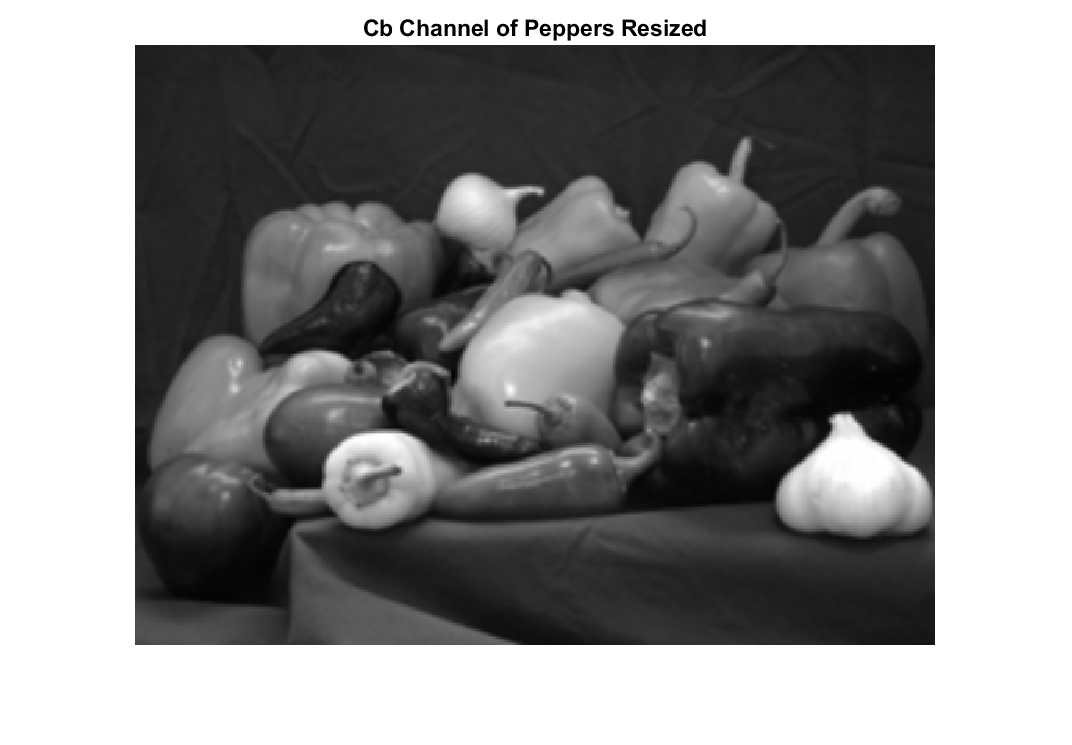
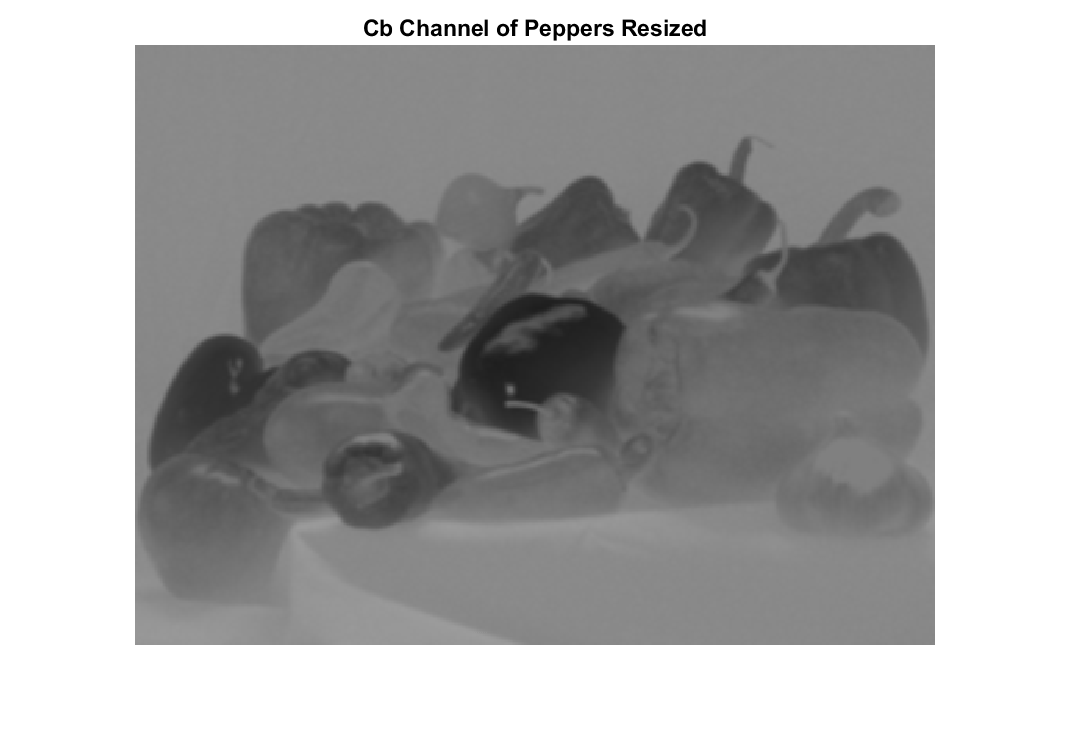
Fixed part 2! The chroma and luma peppers are correct now

diff --git a/lab5/lab5.m b/lab5/lab5.m
@@ -1,7 +1,7 @@
 %% Lab5 Prep
 
 lena = imread('lena.tiff'); 
-peppers = imread('peppers.png'); 
+[peppers, map] = imread('peppers.png'); 
 cur_dir = pwd; 
 
 mkdir('images/part2'); 
@@ -16,14 +16,14 @@ channels = ["Y", "Cb", "Cr"];
 
 for i = 1:size(peppers_ycbcr, 3)
     figure, 
-    imshow(peppers(:,:,i)); 
+    imshow(peppers_ycbcr(:,:,i)); 
     title(strcat(channels(i), ' Channel of Peppers')); 
     saveas(gcf, strcat(channels(i), '_Channel_Peppers_YCrCb.png')); 
 end
 
-peppers_Y_small = imresize(peppers(:,:,1), 0.5); 
-peppers_Cb_small = imresize(peppers(:,:,2), 0.5); 
-peppers_Cr_small = imresize(peppers(:,:,3), 0.5); 
+peppers_Y_small = imresize(peppers_ycbcr(:,:,1), 0.5); 
+peppers_Cb_small = imresize(peppers_ycbcr(:,:,2), 0.5); 
+peppers_Cr_small = imresize(peppers_ycbcr(:,:,3), 0.5); 
 
 peppers_Y = imresize(peppers_Y_small, 2, 'bilinear'); 
 peppers_Cb = imresize(peppers_Cb_small, 2, 'bilinear'); 
@@ -46,11 +46,11 @@ saveas(gcf, 'Resized_Cr_Peppers.png');
 
 %Unscaled Y channel
 peppers_combined = zeros(size(peppers_Y,1),size(peppers_Y,2), 3, 'uint8'); 
-peppers_combined(:,:,1) = peppers(:,:,1);
+peppers_combined(:,:,1) = peppers_ycbcr(:,:,1);
 peppers_combined(:,:,2) = peppers_Cb; 
 peppers_combined(:,:,3) = peppers_Cr; 
 figure, 
-imshow(peppers_combined); 
+imshow(ycbcr2rgb(peppers_combined)); 
 title('Recombined Resized Peppers'); 
 saveas(gcf, 'Recombined_Peppers_Unscaled.png'); 
 
@@ -60,7 +60,7 @@ peppers_combined(:,:,2) = peppers_Cb;
 peppers_combined(:,:,3) = peppers_Cr; 
 
 figure, 
-imshow(peppers_combined); 
+imshow(ycbcr2rgb(peppers_combined)); 
 title('Recombined All Channels Resized Peppers'); 
 saveas(gcf, 'Recombined_Peppers_Scaled.png'); 
 
@@ -151,11 +151,11 @@ f= double(f);
 F_trans = floor(blockproc(f-128, [N N], @(x) T*x.data*T'));
 
 
-figure, imshow(F_trans(297:297+N-1, 81:81+N-1),'InitialMagnification','fit'); 
+figure, imshow(F_trans(297:297+N-1, 81:81+N-1), [], 'InitialMagnification','fit'); 
 title('DCT of High Freq Sub Image'); 
 saveas(gcf, 'DCT_SubImage_297_81.png'); 
 
-figure, imshow(F_trans(1:N, 1:N),'InitialMagnification','fit'); 
+figure, imshow(F_trans(1:N, 1:N), [],'InitialMagnification','fit'); 
 title('DCT of Low Freq Sub Image'); 
 saveas(gcf, 'DCT_SubImage_1_1.png'); 
 
